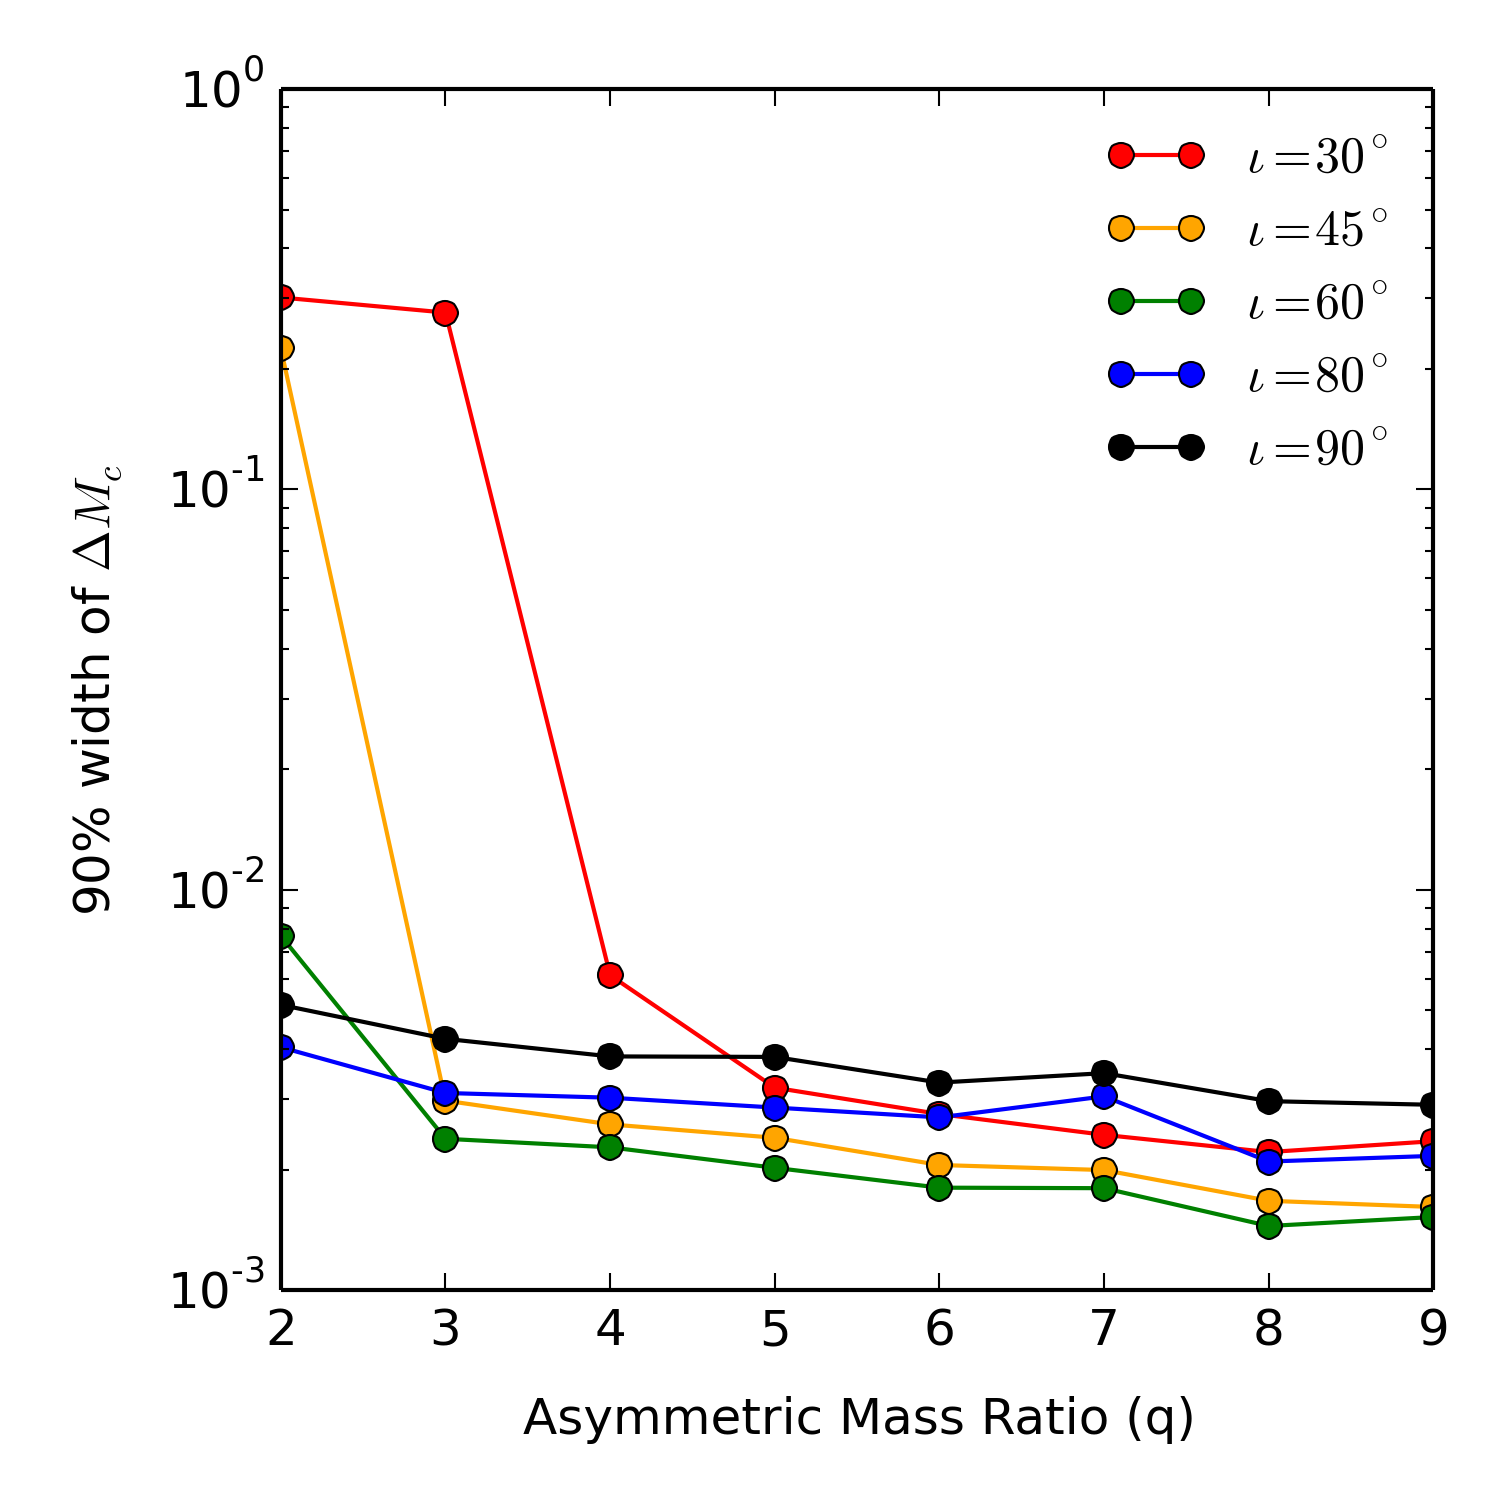
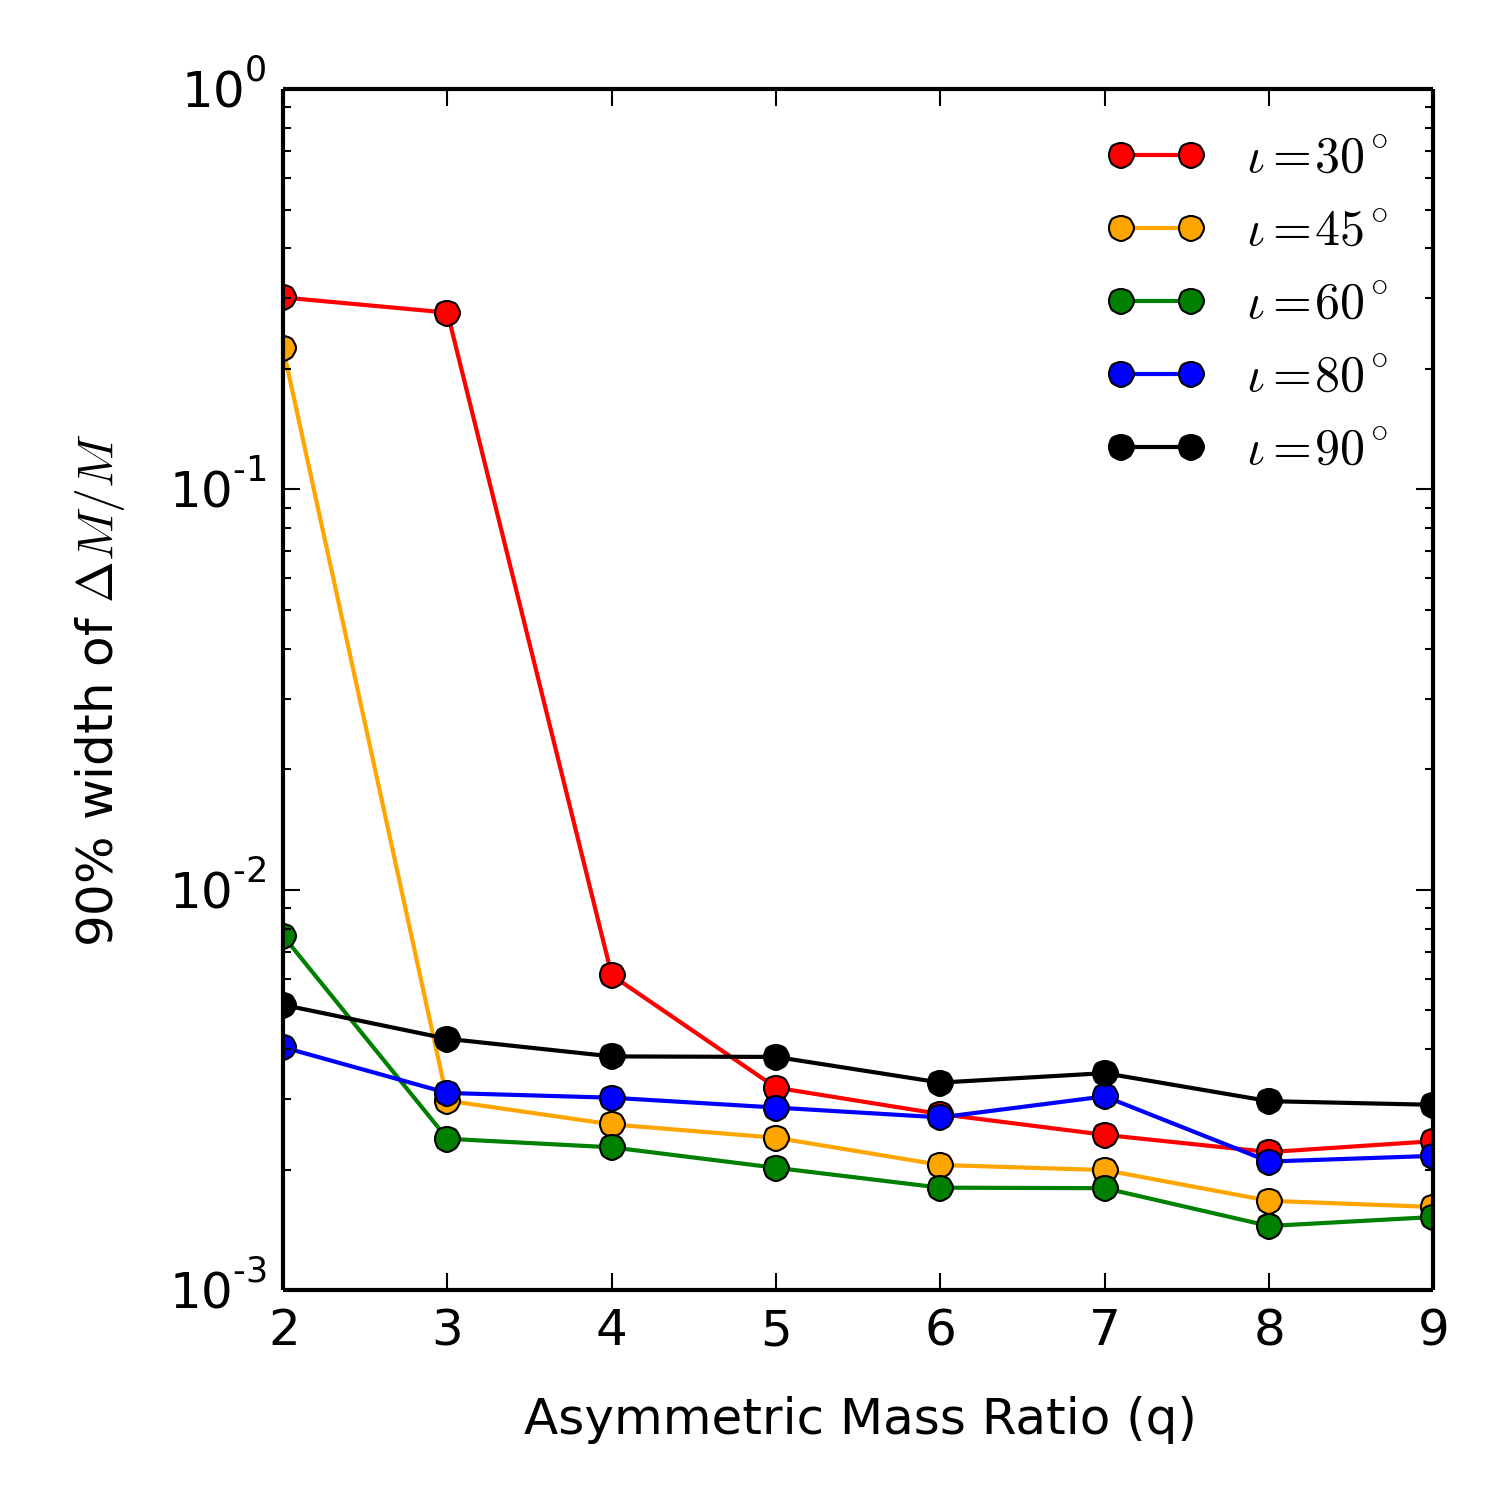
updated figure 3

diff --git a/scripts/mk_statisticalerror_plot.py b/scripts/mk_statisticalerror_plot.py
@@ -38,7 +38,7 @@ ax.semilogy(q, i_80, color='b', marker='o', label='$\iota = 80^{\circ}$')
 ax.semilogy(q, i_90, color='k', marker='o', label='$\iota = 90^{\circ}$')
 plt.legend(loc='best', frameon=False, fontsize=12)
 ax.set_xlabel('Asymmetric Mass Ratio (q)', labelpad=10, fontsize=12)
-ax.set_ylabel('90% width of $\Delta M_c$', labelpad=10, fontsize=12)
+ax.set_ylabel('90% width of $\Delta M/M$', labelpad=10, fontsize=12)
 plt.tight_layout()
 plt.savefig('../papers/intro_paper/figs/fig3.png', dpi=300)
 plt.savefig('../papers/intro_paper/figs/fig3.pdf')
